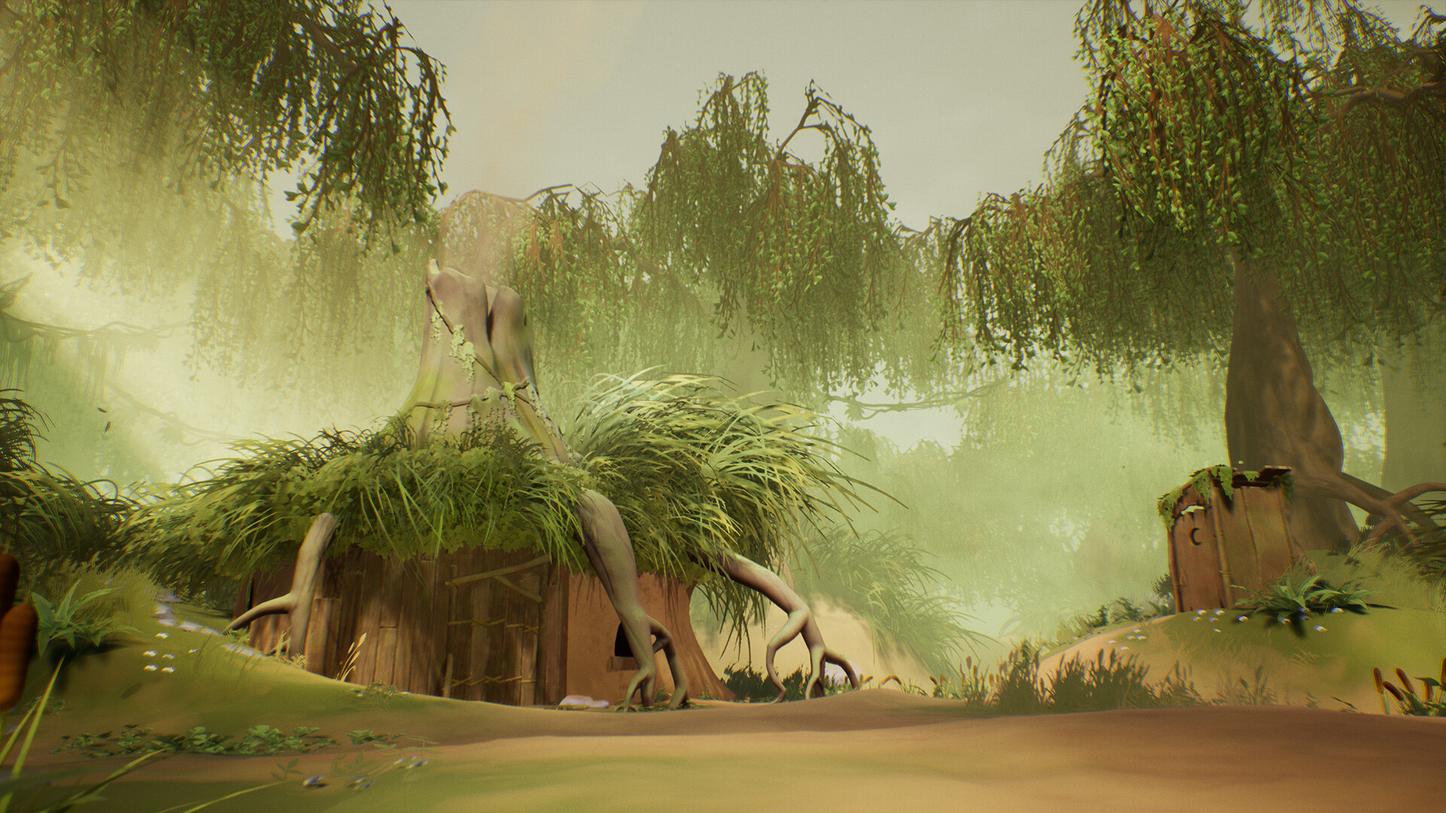
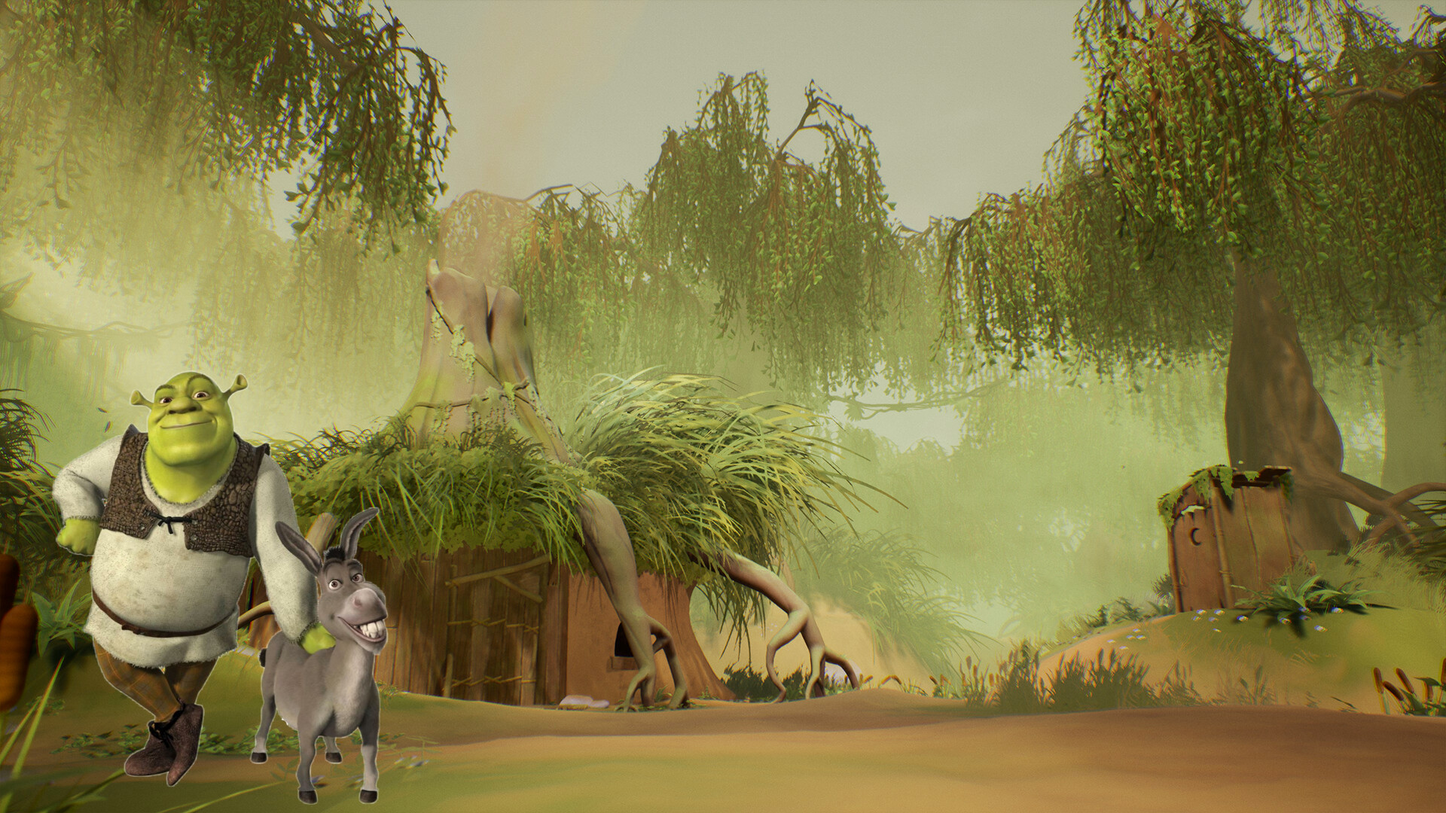
Added Shrek and donkey to background image

Changed region(s): [[0.0312, 0.4583, 0.2812, 1.0], [0.25, 0.6111, 0.2812, 0.6417]]

diff --git a/TicTakToe/src/Components/Board.tsx b/TicTakToe/src/Components/Board.tsx
@@ -1,123 +1,116 @@
-import React, { useState } from 'react'
-import Square from './Square'
+import React, { useState } from "react";
+import Square from "./Square";
 
+function Board() {
+  const [xIsNext, setXIsNext] = useState(true);
+  const [squares, setSquares] = useState<string[]>(Array(9).fill(null));
 
+  function handleClick(i: number) {
+    if (squares[i] || calculateWinner(squares)) {
+      return;
+    }
+    const nextSquares = squares.slice();
+    if (xIsNext) {
+      nextSquares[i] = "Donkey";
+    } else {
+      nextSquares[i] = "Shrek";
+    }
+    //  function getImage(){
+    //   if(nextSquares[i]=== "X"){
+    //     return <img src="./assets/TikTac.png" alt="" />
+    //   }
+    //   else if(nextSquares[i] === "O"){
+    //     return <img src="./assets/Toad.png" alt="" />
+    //   }
+    //  }
+    //   getImage();
+    console.log(i);
+    setSquares(nextSquares);
+    setXIsNext(!xIsNext);
+  }
 
-
-
-const Board = () => {
-    const [xIsNext, setXIsNext] = useState(true);
-    const [squares, setSquares] = useState<string[]>(Array(9).fill(null));
-
-    
-    function handleClick(i: number) {
-
-     if(squares[i] || calculateWinner(squares)){
-        return;
-     }
-        const nextSquares = squares.slice();
-        if(xIsNext){
-            nextSquares[i] = "Donkey";
-        }
-        else{
-            nextSquares[i] = "Shrek"
-
-        }
-      //  function getImage(){
-      //   if(nextSquares[i]=== "X"){
-      //     return <img src="./assets/TikTac.png" alt="" />
-      //   }
-      //   else if(nextSquares[i] === "O"){
-      //     return <img src="./assets/Toad.png" alt="" />
-      //   }
-      //  }
-      //   getImage();
-        console.log(i)
-        setSquares(nextSquares);
-        setXIsNext(!xIsNext);
+  function calculateWinner(squares: string[]) {
+    const lines = [
+      [0, 1, 2],
+      [3, 4, 5],
+      [6, 7, 8],
+      [0, 3, 6],
+      [1, 4, 7],
+      [2, 5, 8],
+      [0, 4, 8],
+      [2, 4, 6],
+    ];
+    for (let i = 0; i < lines.length; i++) {
+      const [a, b, c] = lines[i];
+      if (
+        squares[a] &&
+        squares[a] === squares[b] &&
+        squares[a] === squares[c]
+      ) {
+        return squares[a];
       }
+    }
+    return null;
+  }
+  const winner = calculateWinner(squares);
+  let status;
+  if (winner) {
+    status = "Winner: " + winner;
+  } else {
+    status = "Next player: " + (xIsNext ? "Donkey" : "Shrek");
+  }
 
-      function calculateWinner(squares: string[]) {
-        const lines = [
-          [0, 1, 2],
-          [3, 4, 5],
-          [6, 7, 8],
-          [0, 3, 6],
-          [1, 4, 7],
-          [2, 5, 8],
-          [0, 4, 8],
-          [2, 4, 6]
-        ];
-        for (let i = 0; i < lines.length; i++) {
-          const [a, b, c] = lines[i];
-          if (squares[a] && squares[a] === squares[b] && squares[a] === squares[c]) {
-            return squares[a];
-          }
-        }
-        return null;
-      }
-      const winner = calculateWinner(squares);
-      let status;
-      if(winner){
+  function handlePlayAgain() {
+    setSquares(Array(9).fill(null));
+    setXIsNext(true);
+  }
 
-        status = 'Winner: ' + winner;
-      }
-      else{
-        status = 'Next player: ' + (xIsNext ? 'Donkey' : 'Shrek');
-      }
-
-     
-      
   return (
     <>
-    <div className="bg">
-      <audio autoPlay loop controls src="/Sound/allstar.mp3"></audio>
-      <div className="row">
-        <div className="col m-3">
-          <h1>Shrek-Tak-Toe</h1>
-        </div>
-      <div className="col">
-        <div className="status m-3">{status}</div>
+      <div className="bg">
+        <audio autoPlay loop controls src="/Sound/allstar.mp3"></audio>
+        <div className="row">
+          <div className="col m-3">
+            <h1>Shrek-Tak-Toe</h1>
+          </div>
       
-      
-    </div>
-    <div className="row">
-        <div className="col">
-        <Square value={squares[0]} onSquareClick={() => handleClick(0)}/>
-        <Square value={squares[1]} onSquareClick={() => handleClick(1)}/>
-        <Square value={squares[2]} onSquareClick={() => handleClick(2)}/>
+          <div className="col">
+            <div className="status m-3">{status}</div>
+            {winner || squares.every((square) => square !== null) ? (
+              <button type="button"
+              className="playAgain" 
+              onClick={handlePlayAgain}
+            >
+              Play Again
+            </button>
+            ) : null}
+          </div>
 
+          <div className="row">
+            <div className="col">
+              <Square value={squares[0]} onSquareClick={() => handleClick(0)} />
+              <Square value={squares[1]} onSquareClick={() => handleClick(1)} />
+              <Square value={squares[2]} onSquareClick={() => handleClick(2)} />
+            </div>
+          </div>
+          <div className="row">
+            <div className="col">
+              <Square value={squares[3]} onSquareClick={() => handleClick(3)} />
+              <Square value={squares[4]} onSquareClick={() => handleClick(4)} />
+              <Square value={squares[5]} onSquareClick={() => handleClick(5)} />
+            </div>
+          </div>
+          <div className="row">
+            <div className="col">
+              <Square value={squares[6]} onSquareClick={() => handleClick(6)} />
+              <Square value={squares[7]} onSquareClick={() => handleClick(7)} />
+              <Square value={squares[8]} onSquareClick={() => handleClick(8)} />
+            </div>
+          </div>
         </div>
-      
-    </div>
-    <div className="row">
-        <div className="col">
-        <Square value={squares[3]} onSquareClick={() => handleClick(3)}/>
-        <Square value={squares[4]} onSquareClick={() => handleClick(4)}/>
-        <Square value={squares[5]} onSquareClick={() => handleClick(5)}/>
-
-        </div>
-      
-    </div>
-    <div className="row">
-        <div className="col">
-        <Square value={squares[6]} onSquareClick={() => handleClick(6)}/>
-        <Square value={squares[7]} onSquareClick={() => handleClick(7)}/>
-        <Square value={squares[8]} onSquareClick={() => handleClick(8)}/>
-        
-        </div>
-     
-    </div>
-    </div>
-   
       </div>
-
-    
-    
-
-  
-  </>
-  )
+    </>
+  );
 }
 
-export default Board
+export default Board;

diff --git a/TicTakToe/src/Components/Square.tsx b/TicTakToe/src/Components/Square.tsx
@@ -20,10 +20,10 @@ const Square = ({value, onSquareClick}: SquareProps) => {
 
 function getImage(){
   if(value === 'Donkey'){
-    return <img className='donkey' src="/Images/donkey.png" alt="X" />;
+    return <img className='donkey' src="/Images/donkey.png" alt="Donkey" />;
   }
   else if(value ==='Shrek'){
-    return <img className='shrek' src="/Images/shrek.png" alt="O" />;
+    return <img className='shrek' src="/Images/shrek.png" alt="Shrek" />;
   }
   else{
     return null

diff --git a/TicTakToe/src/App.tsx b/TicTakToe/src/App.tsx
@@ -2,8 +2,7 @@ import { useState } from 'react'
 import reactLogo from './assets/react.svg'
 import './App.css'
 import Board from './Components/Board'
-import donkeyImage from '../Images/donkey.png';
-import shrekImage from '../Images/shrek.png';
+
 
 function App() {
   const [count, setCount] = useState(0)

diff --git a/TicTakToe/src/App.css b/TicTakToe/src/App.css
@@ -47,3 +47,15 @@ font-size: 40px;
 
 }
 
+.playAgain{
+  color: white;
+  background-color: green;
+  border-radius: 5px;
+  margin: 5px;
+  padding: 10px;
+  font-family: fantasy;
+  font-size: 20px;
+
+  
+}
+

diff --git a/TicTakToe/src/main.tsx b/TicTakToe/src/main.tsx
@@ -1,6 +1,7 @@
 import React from 'react'
 import ReactDOM from 'react-dom/client'
 import App from './App'
+
 import './index.css'
 
 ReactDOM.createRoot(document.getElementById('root') as HTMLElement).render(
